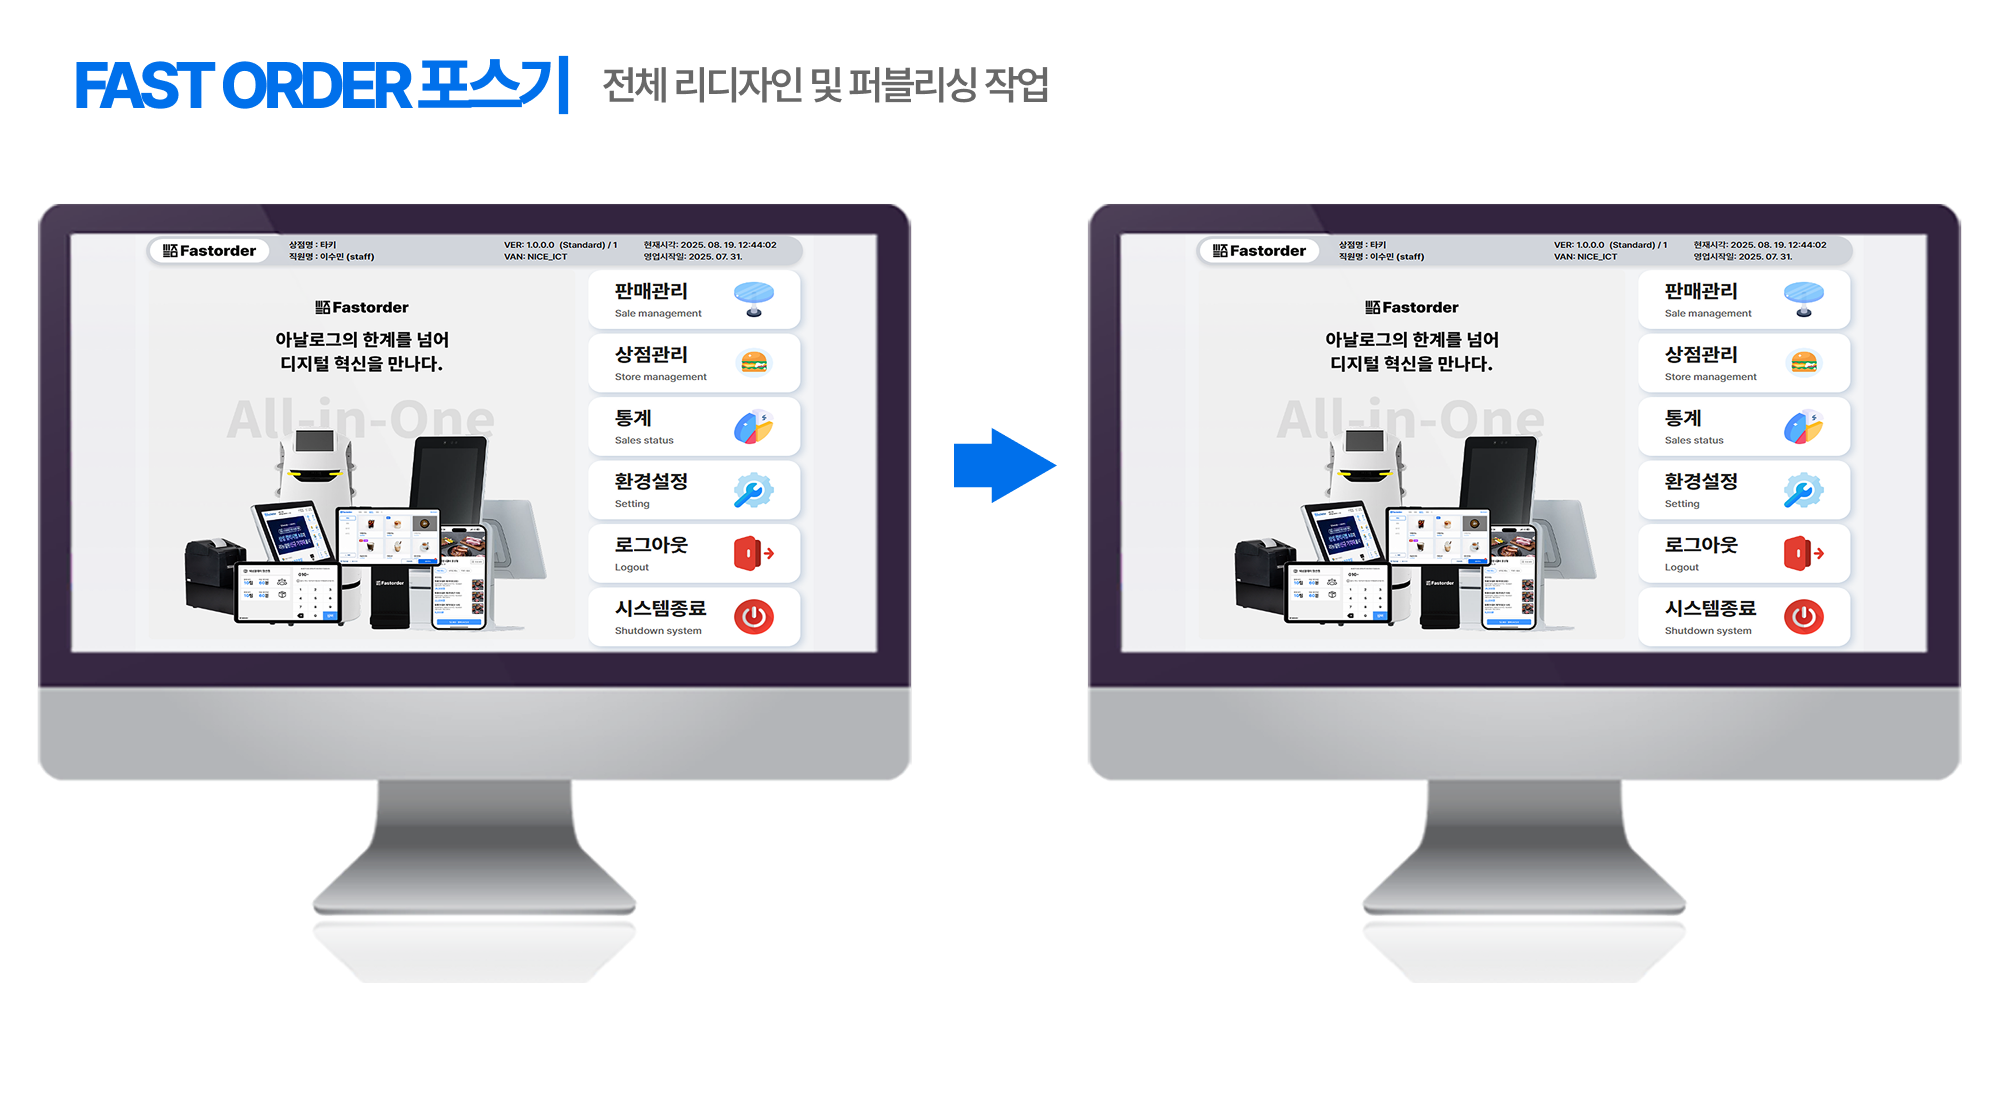
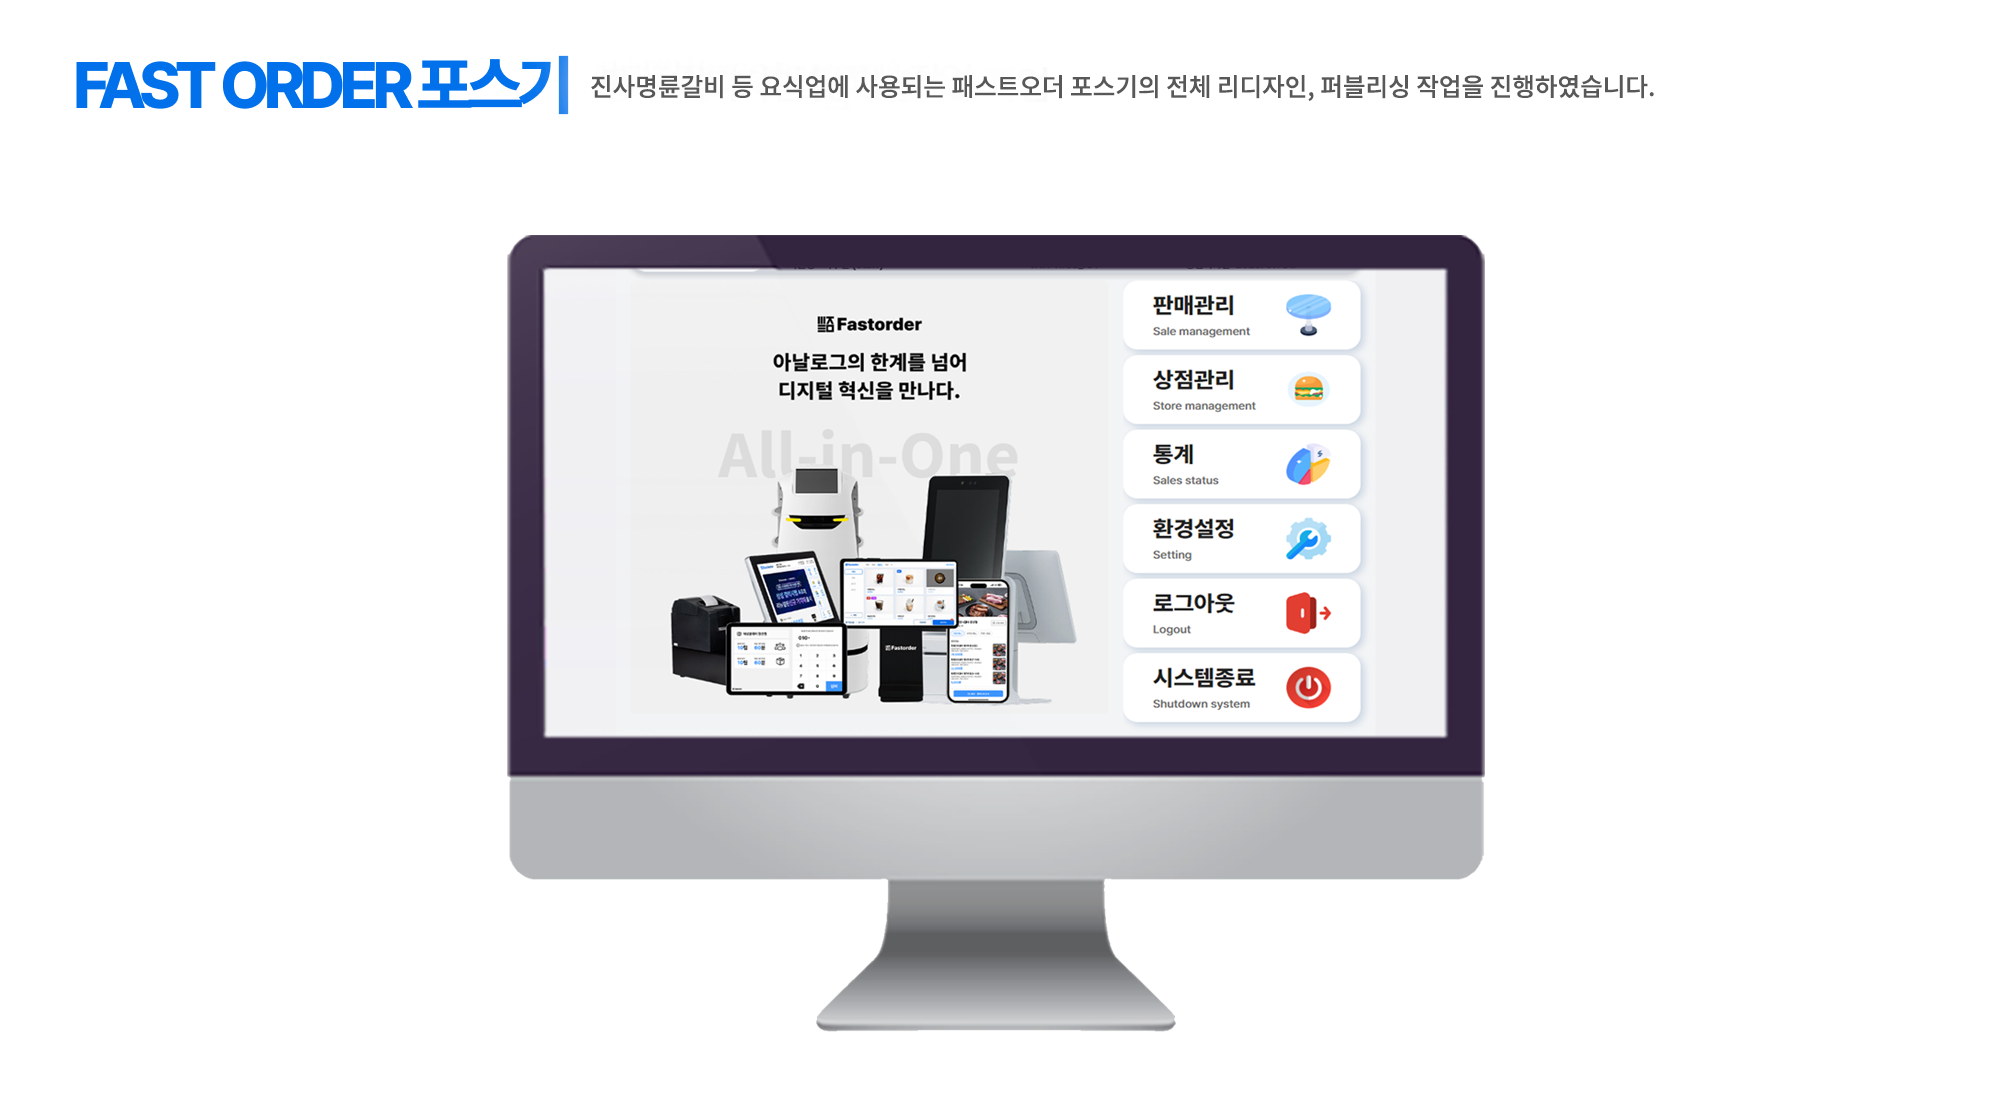
포스설명, 상세페이지 추가

diff --git a/index.html b/index.html
@@ -215,6 +215,7 @@
               <li data-filter="*" class="filter-active">ALL</li>
               <li data-filter=".filter-RE-DESIGN">RE-DESIGN</li>
               <li data-filter=".filter-APP-DESIGN">APP-DESIGN</li>
+              <li data-filter=".filter-DETAILED">DETAILED</li>
               <li data-filter=".filter-BANNER">BANNER</li>
               <li data-filter=".filter-LLLUSTRATOR">LLLUSTRATOR</li>
               <li data-filter=".filter-LOGO">LOGO</li>
@@ -257,24 +258,6 @@
           </div>
 
           
-
-          <div class="col-lg-4 col-md-6 portfolio-item filter-APP-DESIGN">
-            <img src="assets/img/portfolio/어플디자인.png" class="img-fluid" alt="">
-            <div class="portfolio-info">
-              <h4>APP</h4>
-              <p>푸드트럭 어플</p>
-              <a href="assets/img/portfolio/어플설명1.png" data-gallery="appGallery1"
-                class="portfolio-lightbox preview-link" title="APP-DESIGN1"><i class="bx bx-plus"></i></a>
-              <a href="assets/img/portfolio/어플설명2.png" data-gallery="appGallery1"
-                class="portfolio-lightbox preview-link" title="APP-DESIGN2"><i class="bx bx-plus"></i></a>
-              <a href="assets/img/portfolio/어플설명3.png" data-gallery="appGallery1"
-                class="portfolio-lightbox preview-link" title="APP-DESIGN3"><i class="bx bx-plus"></i></a>
-              <a href="assets/img/portfolio/어플설명4.png" data-gallery="appGallery1"
-                class="portfolio-lightbox preview-link" title="APP-DESIGN4"><i class="bx bx-plus"></i></a>
-            </div>
-          </div>
-
-          
           <div class="col-lg-4 col-md-6 portfolio-item filter-APP-DESIGN">
             <img src="assets/img/portfolio/포스디자인.png" class="img-fluid" alt="">
             <div class="portfolio-info">
@@ -294,6 +277,34 @@
           </div>
 
 
+          <div class="col-lg-4 col-md-6 portfolio-item filter-APP-DESIGN">
+            <img src="assets/img/portfolio/어플디자인.png" class="img-fluid" alt="">
+            <div class="portfolio-info">
+              <h4>APP</h4>
+              <p>푸드트럭 어플</p>
+              <a href="assets/img/portfolio/어플설명1.png" data-gallery="appGallery1"
+                class="portfolio-lightbox preview-link" title="APP-DESIGN1"><i class="bx bx-plus"></i></a>
+              <a href="assets/img/portfolio/어플설명2.png" data-gallery="appGallery1"
+                class="portfolio-lightbox preview-link" title="APP-DESIGN2"><i class="bx bx-plus"></i></a>
+              <a href="assets/img/portfolio/어플설명3.png" data-gallery="appGallery1"
+                class="portfolio-lightbox preview-link" title="APP-DESIGN3"><i class="bx bx-plus"></i></a>
+              <a href="assets/img/portfolio/어플설명4.png" data-gallery="appGallery1"
+                class="portfolio-lightbox preview-link" title="APP-DESIGN4"><i class="bx bx-plus"></i></a>
+            </div>
+          </div>
+
+          
+          
+          <div class="col-lg-4 col-md-6 portfolio-item filter-DETAILED">
+            <img src="assets/img/portfolio/상세페이지.png" class="img-fluid" alt="">
+            <div class="portfolio-info">
+              <h4>DETAILED PAGE</h4>
+              <p>상세페이지</p>
+              <a href="assets/img/portfolio/상세페이지1.png" data-gallery="ediyaGallery1"
+              class="portfolio-lightbox preview-link" title="DETAILED"><i class="bx bx-plus"></i></a>
+            
+            </div>
+          </div>
 
           <div class="col-lg-4 col-md-6 portfolio-item filter-BANNER">
             <img src="assets/img/portfolio/이디야배너.jpg" class="img-fluid" alt="">